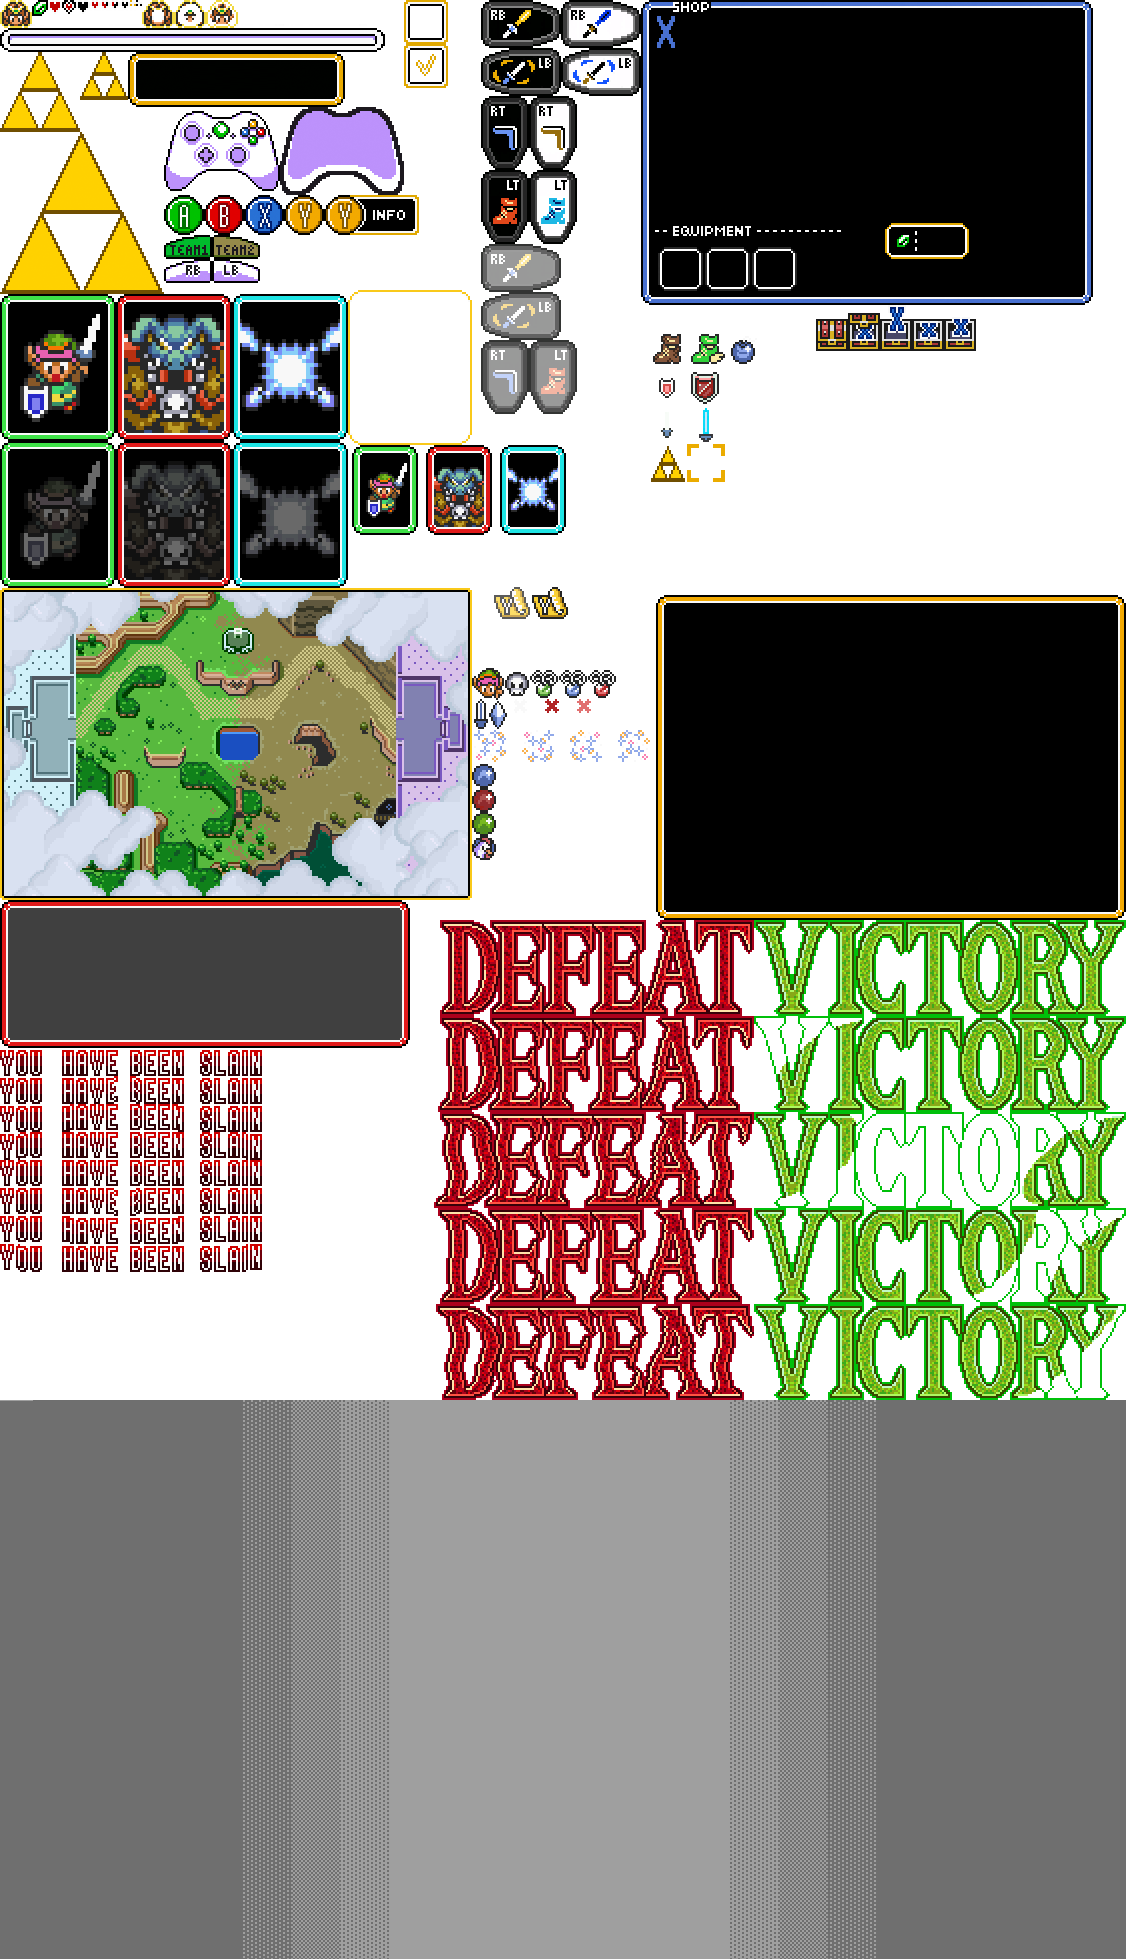
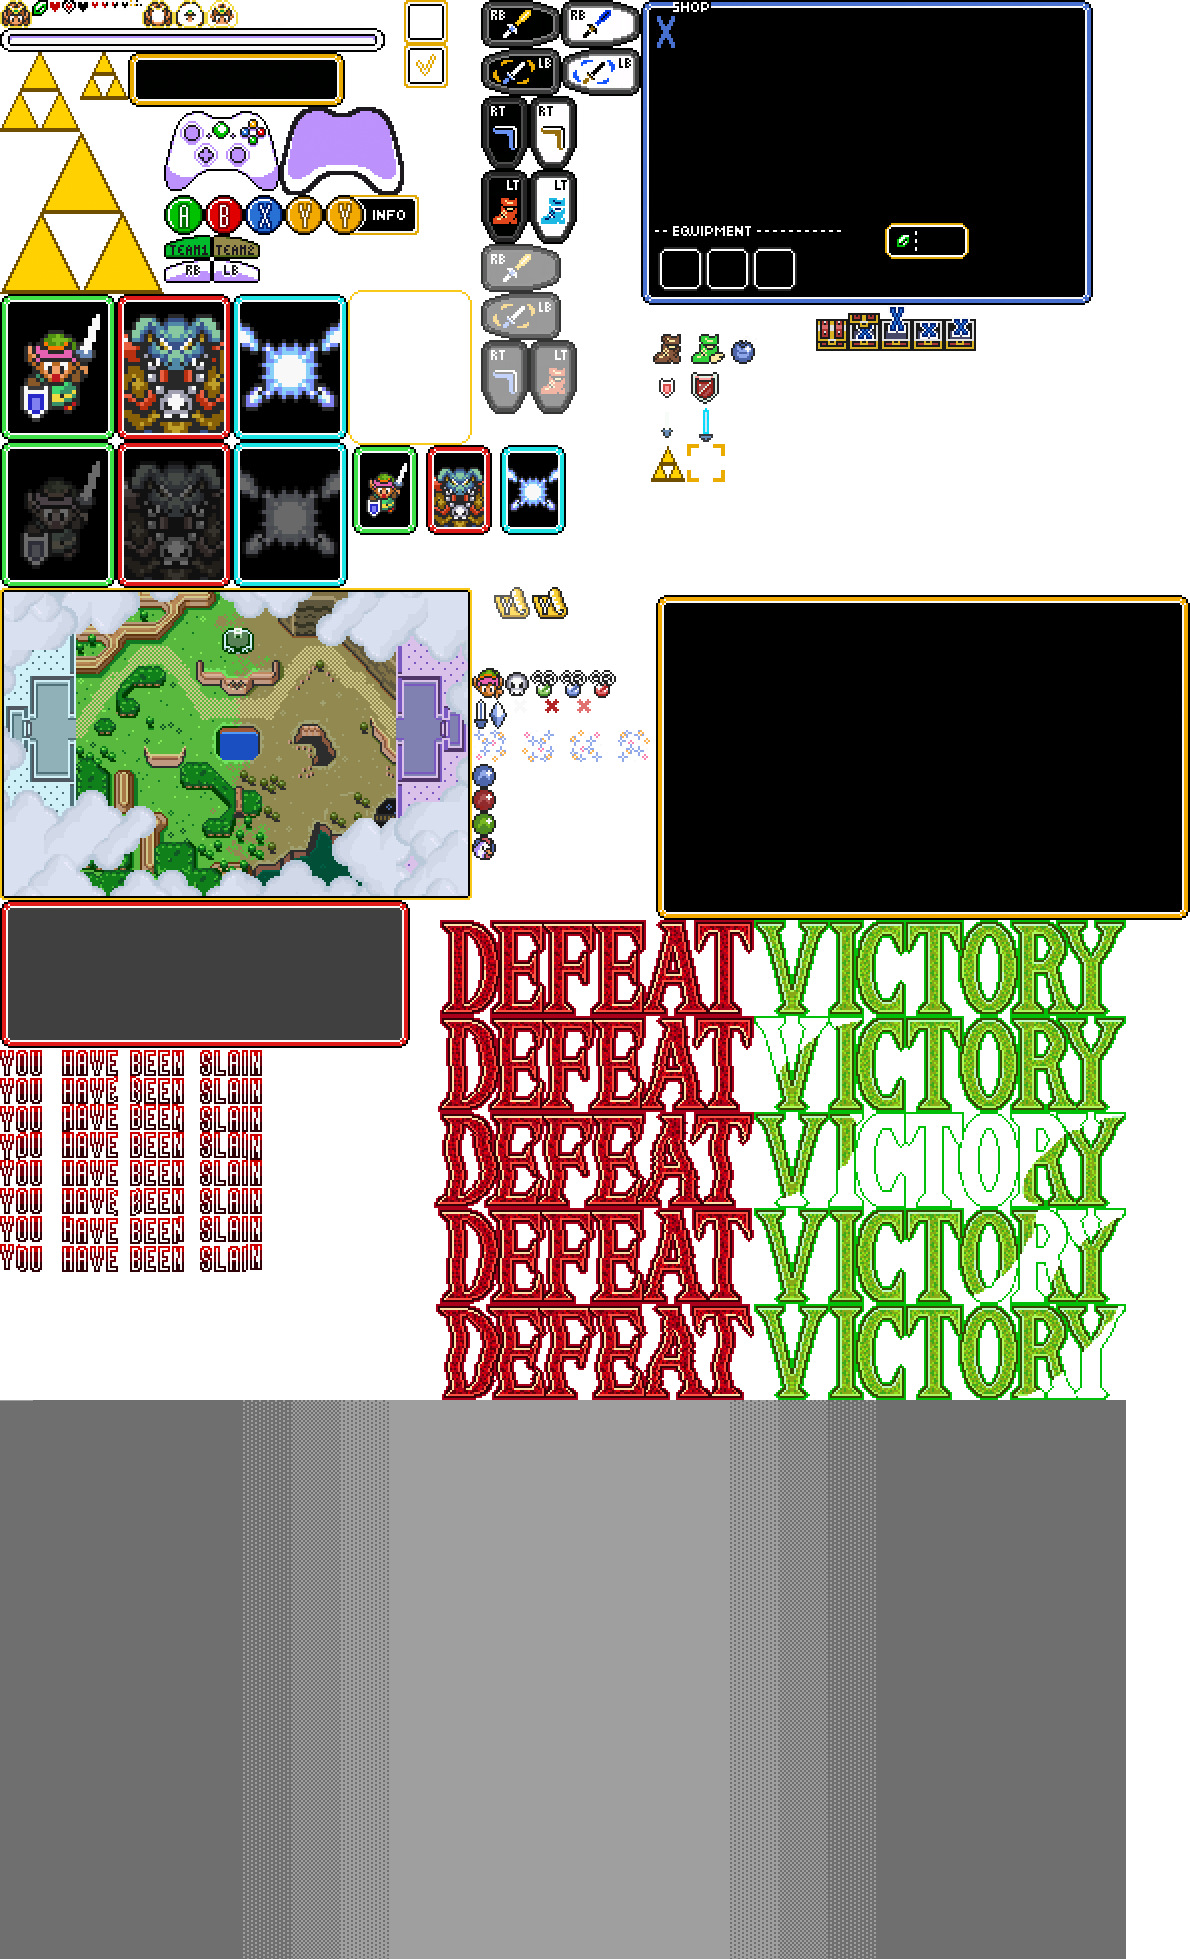
Polish SelectCharacter fuckit

diff --git a/Motor2D/CharacterSelectionScene.cpp b/Motor2D/CharacterSelectionScene.cpp
@@ -25,10 +25,10 @@ bool CharacterSelectionScene::Start()
 
 	// Create players and info
 	link = new player_data();
-	link->ability1_text = "Basic Attack: Frontal smash with the\nsword";
-	link->ability2_text = "Sword Swing: Link swings his sword\naround him and damage all nearby\nenemies"; 
-	link->ability3_text = "Boomerang: Link shoots his boomerang,\ncatch it when it comes back!";
-	link->ability4_text = "Charge: Link will run to target location\nignoring collisions and damaging\nall enemies he touches.";
+	link->ability1_text = "Basic Attack: Frontal smash with the sword";
+	link->ability2_text = "Sword Swing: Link swings his sword around\nhim and damage all nearby enemies."; 
+	link->ability3_text = "Boomerang: Link shoots his boomerang, catch\nit when it comes back!";
+	link->ability4_text = "Charge: Link will run to target location\nignoring collisions and damaging all enemies he\n touches.";
 	link->big_image = {0, 294, 116, 147}; 
 	link->small_image = {348, 445, 74, 90};
 	link->name = "LINK"; 
@@ -36,8 +36,8 @@ bool CharacterSelectionScene::Start()
 	players_data.push_back(link);
 
 	ganon = new player_data();
-	ganon->ability1_text = "Basic Attack: Frontal smash with the trident";
-	ganon->ability2_text = "Bat: Ganon shoot a bat to target direction";
+	ganon->ability1_text = "Basic Attack: Frontal smash with the trident.";
+	ganon->ability2_text = "Bat: Ganon shoot a bat to target direction.";
 	ganon->ability3_text = "Flame Shield: Ganon puts a shield to himself\nand summon 3 fire orbs that orbit around him. ";
 	ganon->ability4_text = "Evil Jump: Ganaon jumps to a target position\nand stuns all enemies on the area.";
 	ganon->big_image = { 116, 294, 116, 147 };
@@ -47,10 +47,10 @@ bool CharacterSelectionScene::Start()
 	players_data.push_back(ganon);
 
 	navi = new player_data();
-	navi->ability1_text = "Basic Attack: Navi shoots an energy ball in\nfront of her that hits the first enemy hit";
+	navi->ability1_text = "Basic Attack: Navi shoots an energy ball in\nfront of her that hits the first enemy hit.";
 	navi->ability2_text = "Watch Out!:  Navi heals allies around her. Range\nis displayed as a circle with Navi as centre.";
 	navi->ability3_text = "Blink: Navi uses her magic energy to teleport\na small distance in front of her.!";
-	navi->ability4_text = "Hey Listen!: disable enemy players view for 3\n seconds";
+	navi->ability4_text = "Hey Listen!: disable enemy players view for 3\n seconds.";
 	navi->big_image = { 232, 294, 116, 147 };
 	navi->small_image = { 496, 445, 75, 90 };
 	navi->name = "NAVI";
@@ -201,7 +201,7 @@ bool CharacterSelectionScene::Update(float dt)
 		{
 			viewports_data[i].is_ready = true;
 		
-			viewports_data[i].ready_text->SetPos(iPoint(viewports_data[i].ready_text->GetPos().x + 80, viewports_data[i].ready_text->GetPos().y));
+			viewports_data[i].ready_text->SetPos(iPoint(viewports_data[i].ready_text->GetPos().x + 90, viewports_data[i].ready_text->GetPos().y));
 			viewports_data[i].ready_text->SetText("READY!");
 							
 		}
@@ -210,7 +210,7 @@ bool CharacterSelectionScene::Update(float dt)
 		{
 			viewports_data[i].is_ready = false;
 
-			viewports_data[i].ready_text->SetPos(iPoint(viewports_data[i].ready_text->GetPos().x - 80, viewports_data[i].ready_text->GetPos().y));
+			viewports_data[i].ready_text->SetPos(iPoint(viewports_data[i].ready_text->GetPos().x - 90, viewports_data[i].ready_text->GetPos().y));
 			viewports_data[i].ready_text->SetText("Press START when ready!");
 		}
 

diff --git a/Motor2D/CharacterSelectionScene.h b/Motor2D/CharacterSelectionScene.h
@@ -8,6 +8,11 @@
 #include "j1App.h"
 #include "j1Viewports.h"
 
+#define BIG_CARD_WIDTH 116
+#define BIG_CARD_HEIGHT 147
+#define SMALL_CARD_WIDTH 75
+#define SMALL_CARD_HEIGHT 90
+
 struct player_data
 {
 	player_data() {};
@@ -34,27 +39,27 @@ struct viewport_data
 	{
 		SDL_Rect view = App->view->GetViewportRect(1);
 
-		iPoint big_image_pos = { view.w/2 - view.w/11, view.h / 5};
+		iPoint big_image_pos = { view.w/2 - BIG_CARD_WIDTH/2, view.h / 5};
 		iPoint small_image_left_pos = { big_image_pos.x - 120, big_image_pos.y + 30};
 		iPoint small_image_right_pos = { big_image_pos.x + 116 + 120 - 74, big_image_pos.y + 30};
 
-		iPoint button_info_pos = {view.w - 95 - 15, view.h - 60};
 		SDL_Rect button_info_rect = { 324, 195, 95, 40 };
-
-		iPoint background_info_image_pos = {view.w / 15, view.h / 15 };
-		SDL_Rect background_info_image_rect = { 656, 595, 470, 325 };
-
-		iPoint background_name_image_pos = {view.w / 3 , view.h - ( view.h / 3)};
+		iPoint button_info_pos = {view.w - 95 - 15, view.h - 60};
+		
+		SDL_Rect background_info_image_rect = { 656, 595, 534, 325 };
+		iPoint background_info_image_pos = {view.w / 2 - background_info_image_rect.w/2, view.h / 2 - background_info_image_rect.h / 2 };
+			
 		SDL_Rect background_name_image_rect = { 128, 52,  217, 55 };
+		iPoint background_name_image_pos = { view.w / 2 - background_name_image_rect.w/2, view.h - (view.h / 3) };
 
 		iPoint text_name_pos = { background_name_image_pos.x + 85, background_name_image_pos.y + 10};
 
-		iPoint abilities_info1_pos = { background_info_image_pos.x + 25, background_info_image_pos.y - 13 + view.h/ 12 };
-		iPoint abilities_info2_pos = { background_info_image_pos.x + 25, background_info_image_pos.y - 13 + view.h/ 4 };
-		iPoint abilities_info3_pos = { background_info_image_pos.x + 25, background_info_image_pos.y - 13 + view.h/ (int) 2.4f };
-		iPoint abilities_info4_pos = { background_info_image_pos.x + 25, background_info_image_pos.y - 13 + background_info_image_rect.h - background_info_image_rect.h/4 };
+		iPoint abilities_info1_pos = { background_info_image_pos.x + 25, background_info_image_pos.y + 30 };
+		iPoint abilities_info2_pos = { background_info_image_pos.x + 25, background_info_image_pos.y + 90};
+		iPoint abilities_info3_pos = { background_info_image_pos.x + 25, background_info_image_pos.y + 150};
+		iPoint abilities_info4_pos = { background_info_image_pos.x + 25, background_info_image_pos.y + 210 };
 
-		iPoint ready_text_pos = { view.w/3 - view.w/30, view.h - view.h/6}; 
+		iPoint ready_text_pos = { view.w/4 + view.w / 10, view.h - view.h/6};
 
 		window = App->gui->UI_CreateWin(iPoint(0, 0), view.w, view.h, 1, true, false, true);
 		window->viewport = viewport;
